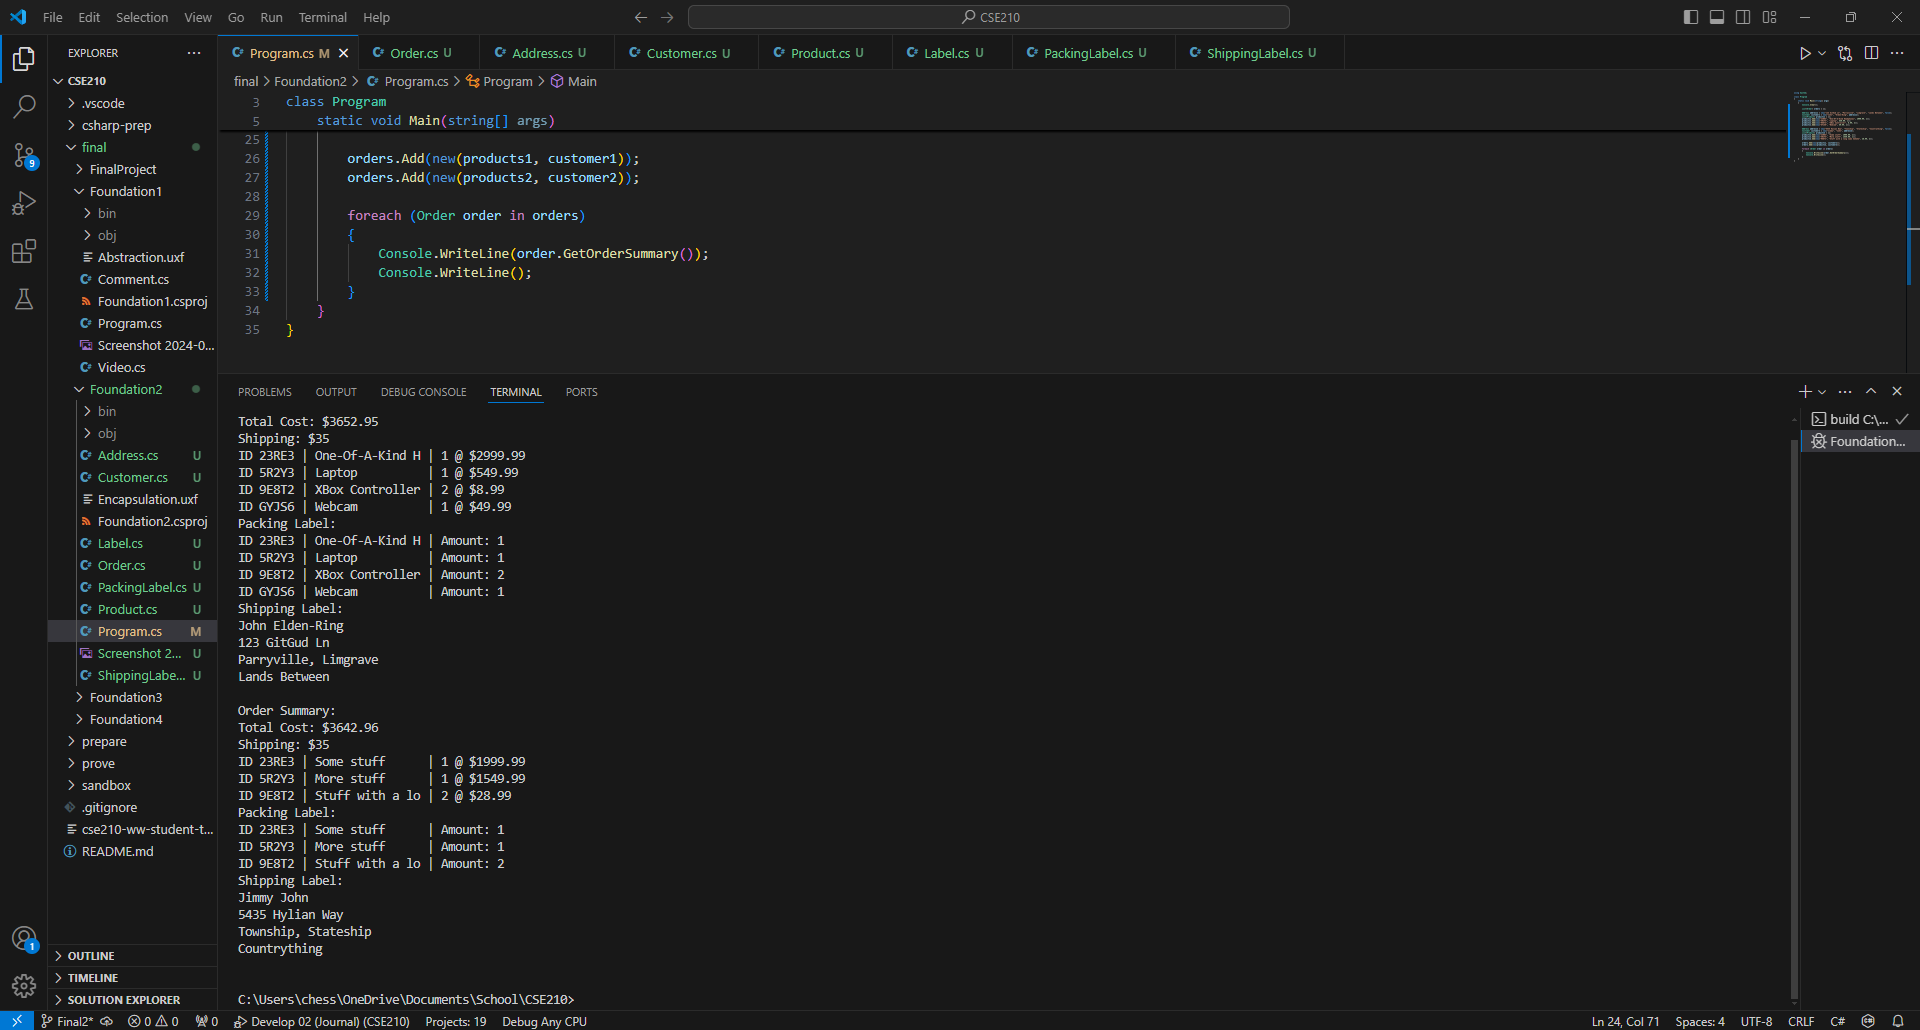
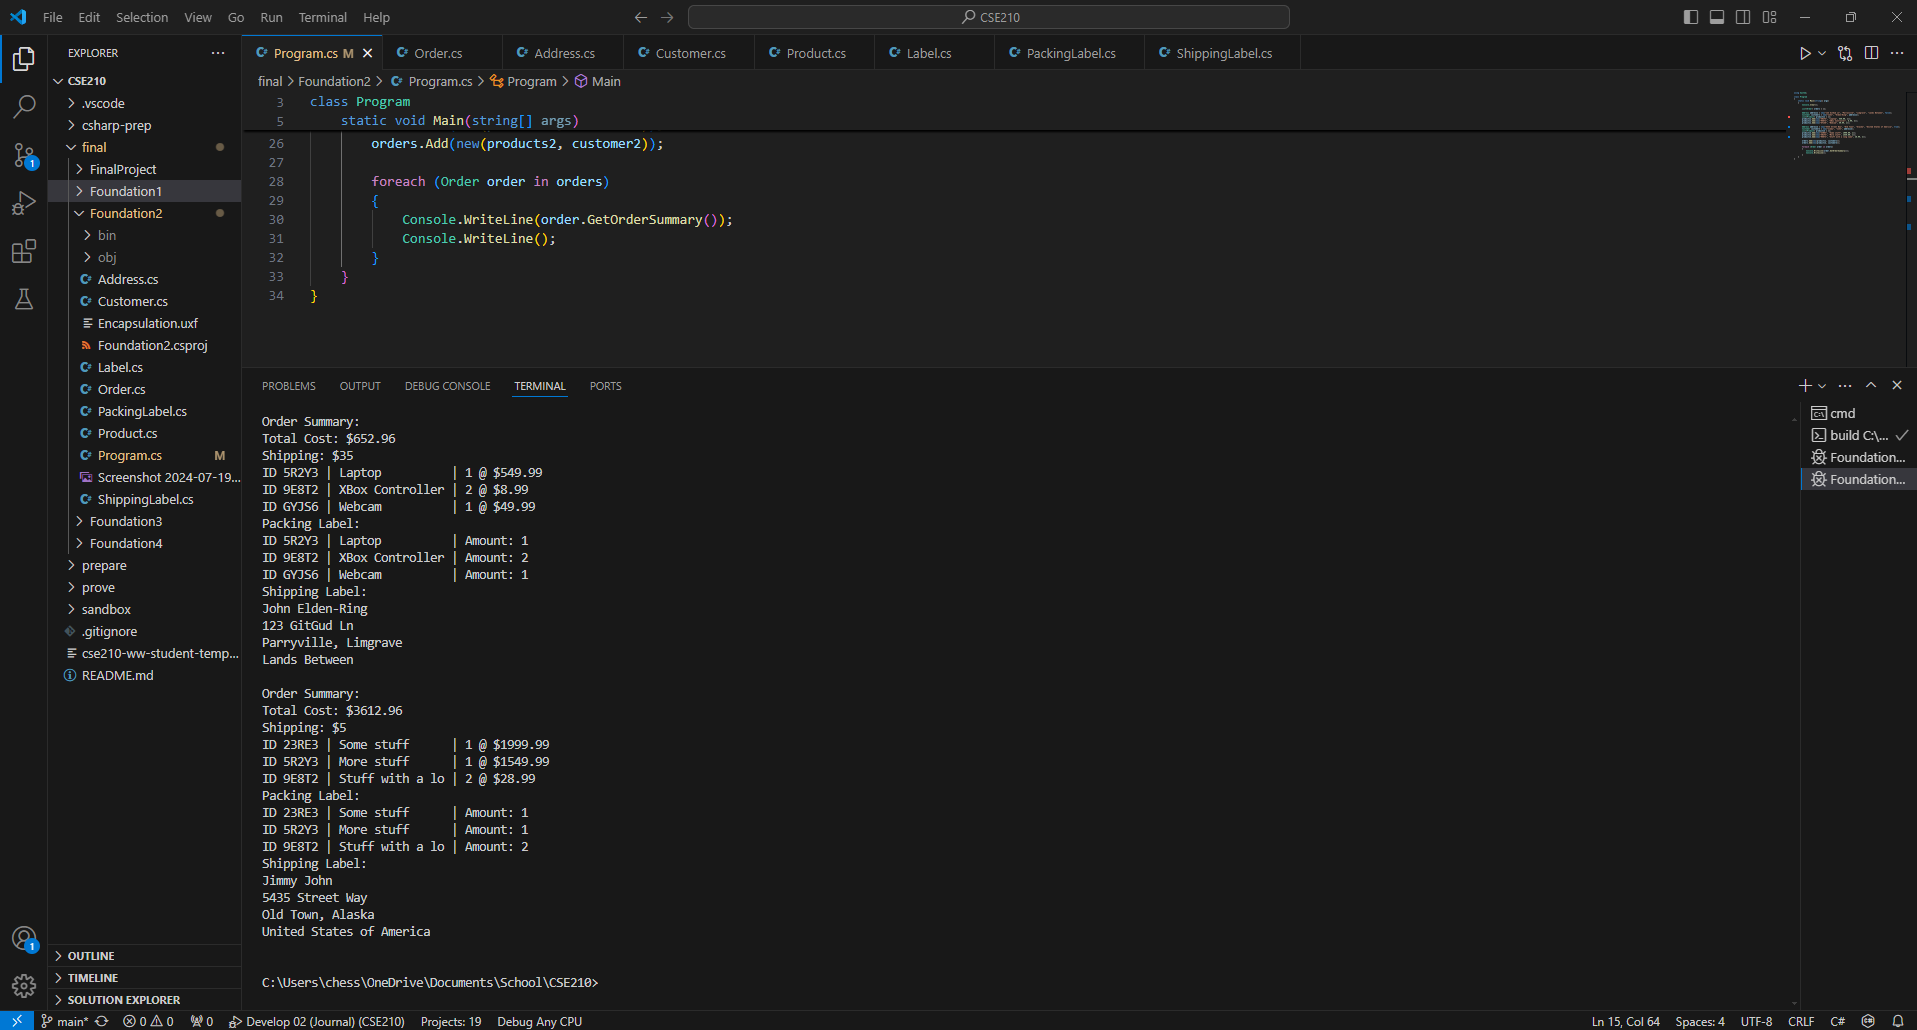
update final2

diff --git a/final/Foundation2/Program.cs b/final/Foundation2/Program.cs
@@ -11,17 +11,16 @@ class Program
         Address address1 = new("123 GitGud Ln", "Parryville", "Limgrave", "Lands Between", false);
         Customer customer1 = new("John", "Elden-Ring", address1);
         List<Product> products1 = [];
-        products1.Add(new("23RE3", "One-Of-A-Kind Headphones", 2999.99, 1));
         products1.Add(new("5R2Y3", "Laptop", 549.99, 1));
         products1.Add(new("9E8T2", "XBox Controller", 8.99, 2));
         products1.Add(new("GYJS6", "Webcam", 49.99, 1));
 
-        Address address2 = new("5435 Hylian Way", "Township", "Stateship", "Countrything", false);
+        Address address2 = new("5435 Street Way", "Old Town", "Alaska", "United States of America", true);
         Customer customer2 = new("Jimmy", "John", address2);
         List<Product> products2 = [];
         products2.Add(new("23RE3", "Some stuff", 1999.99, 1));
         products2.Add(new("5R2Y3", "More stuff", 1549.99, 1));
-        products2.Add(new("9E8T2", "Stuff with a long name hehehe", 28.99, 2));
+        products2.Add(new("9E8T2", "Stuff with a long name", 28.99, 2));
 
         orders.Add(new(products1, customer1));
         orders.Add(new(products2, customer2));
